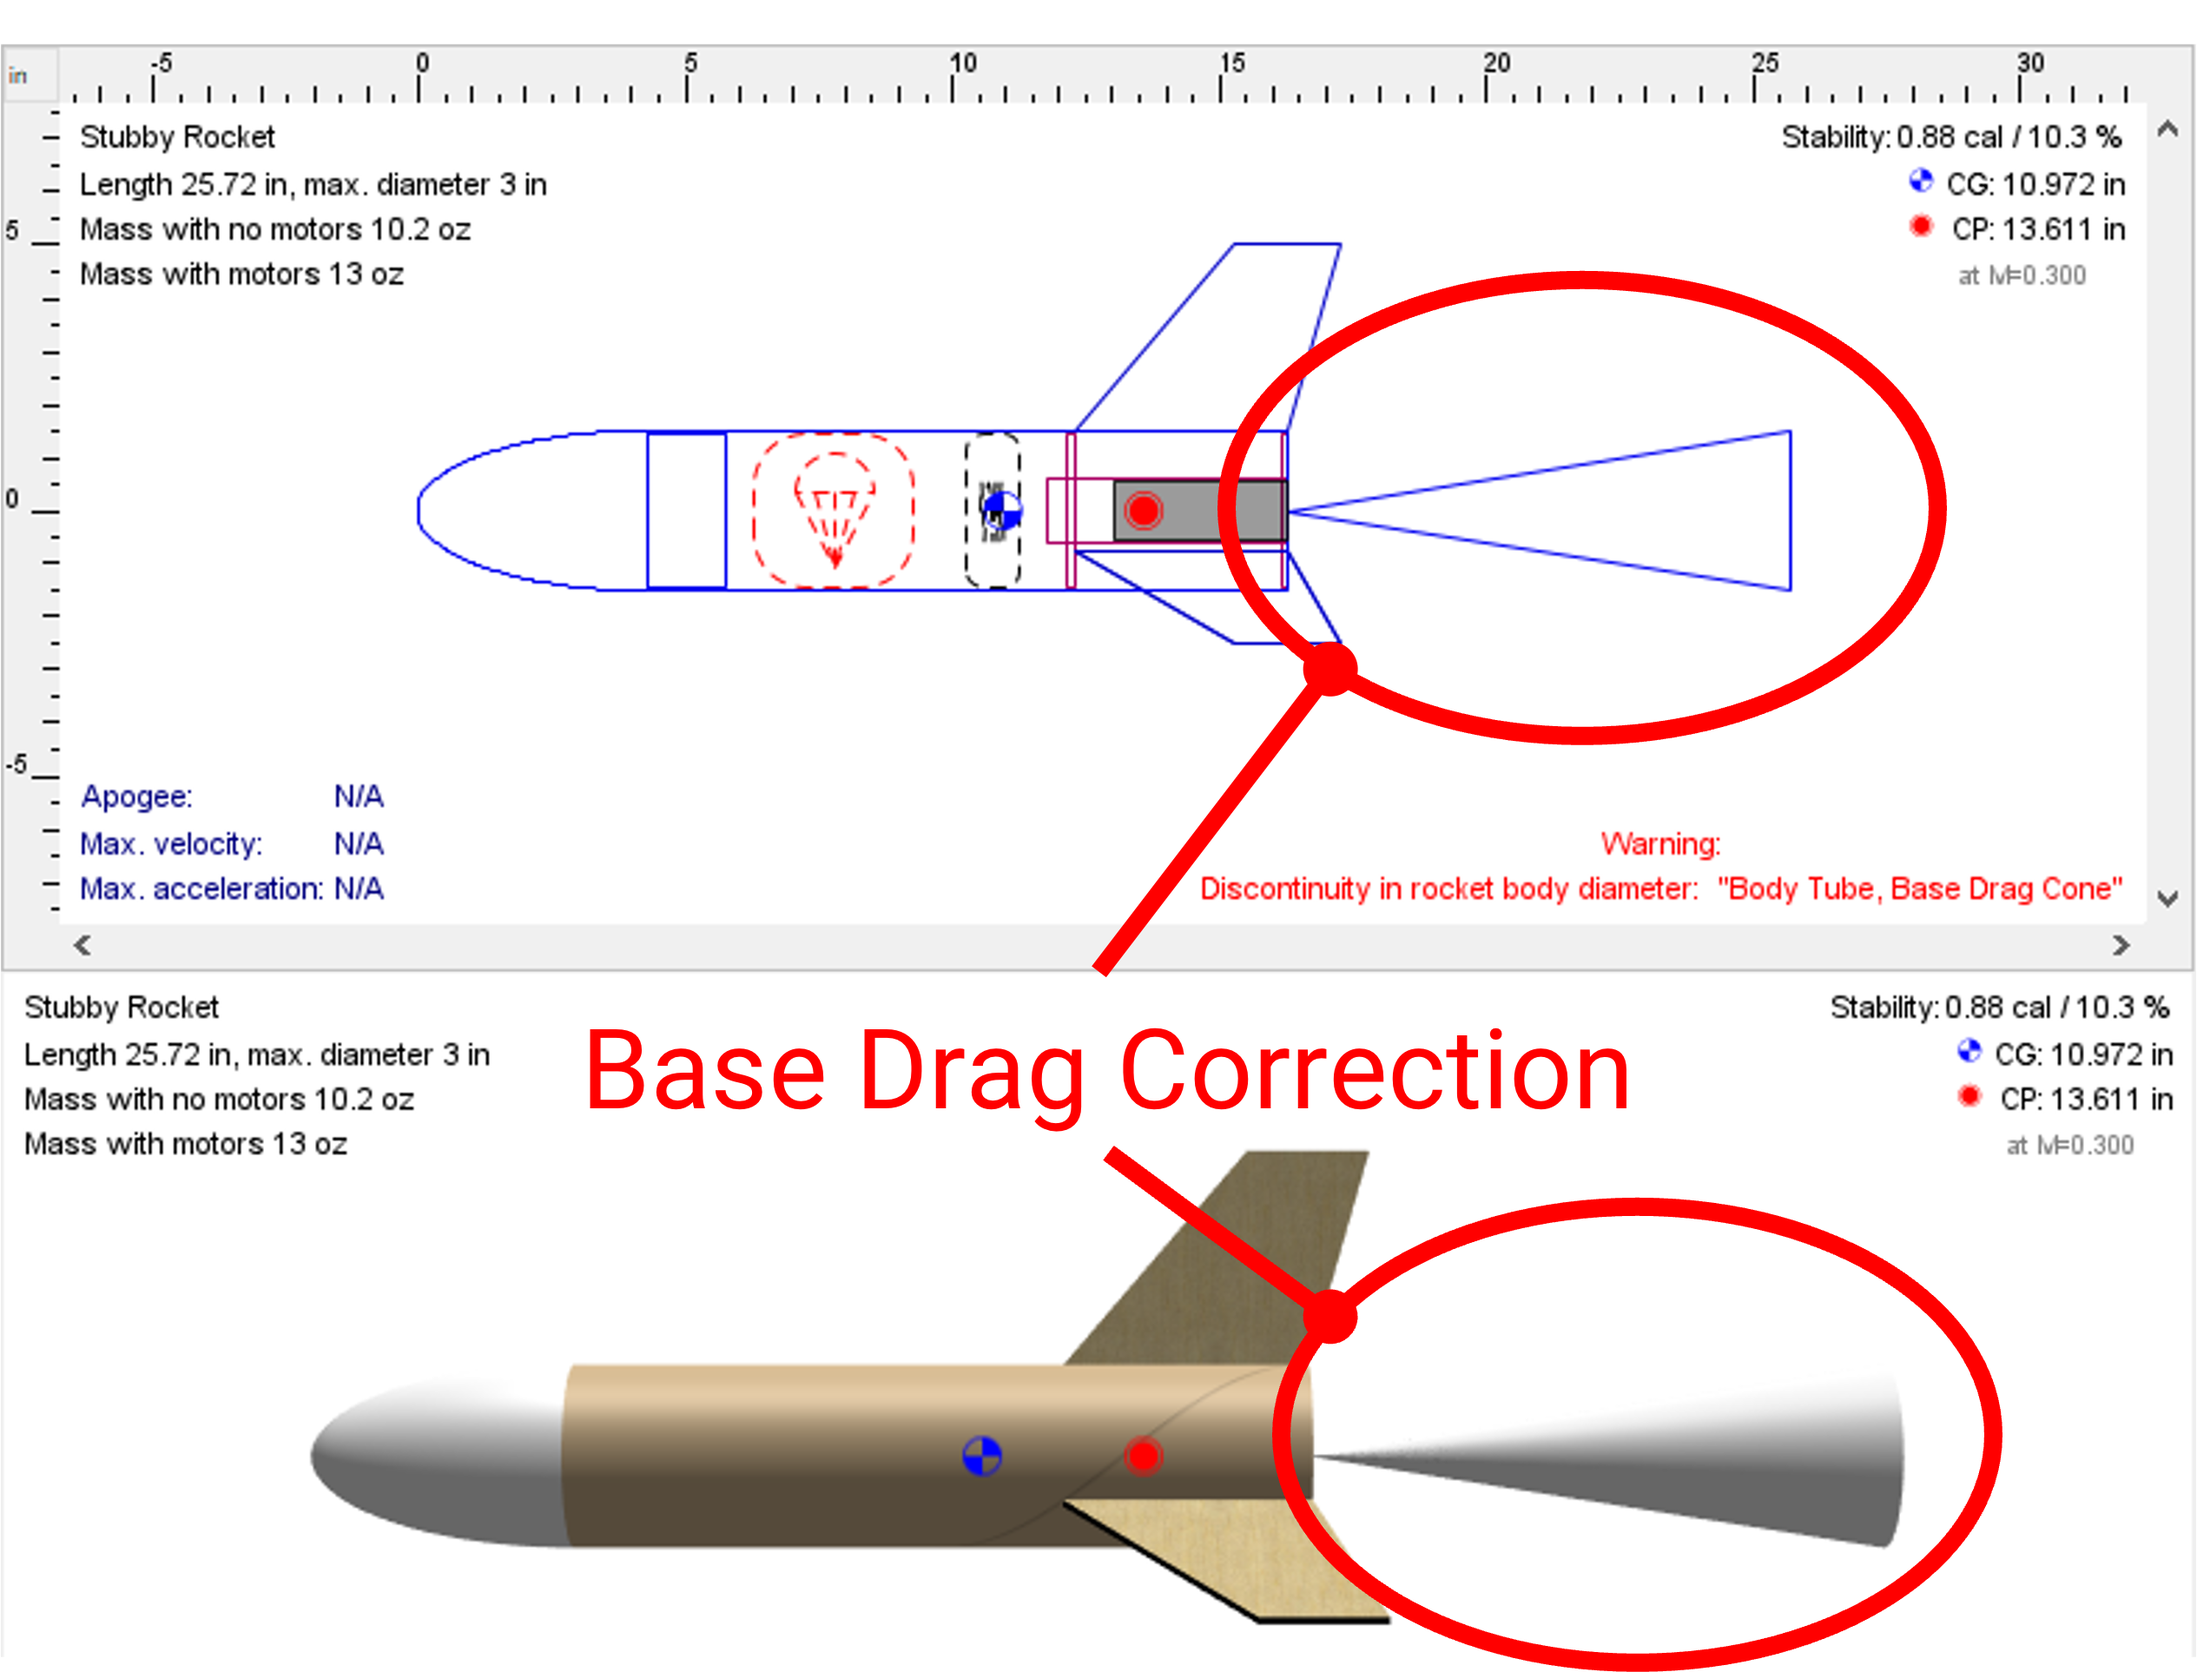
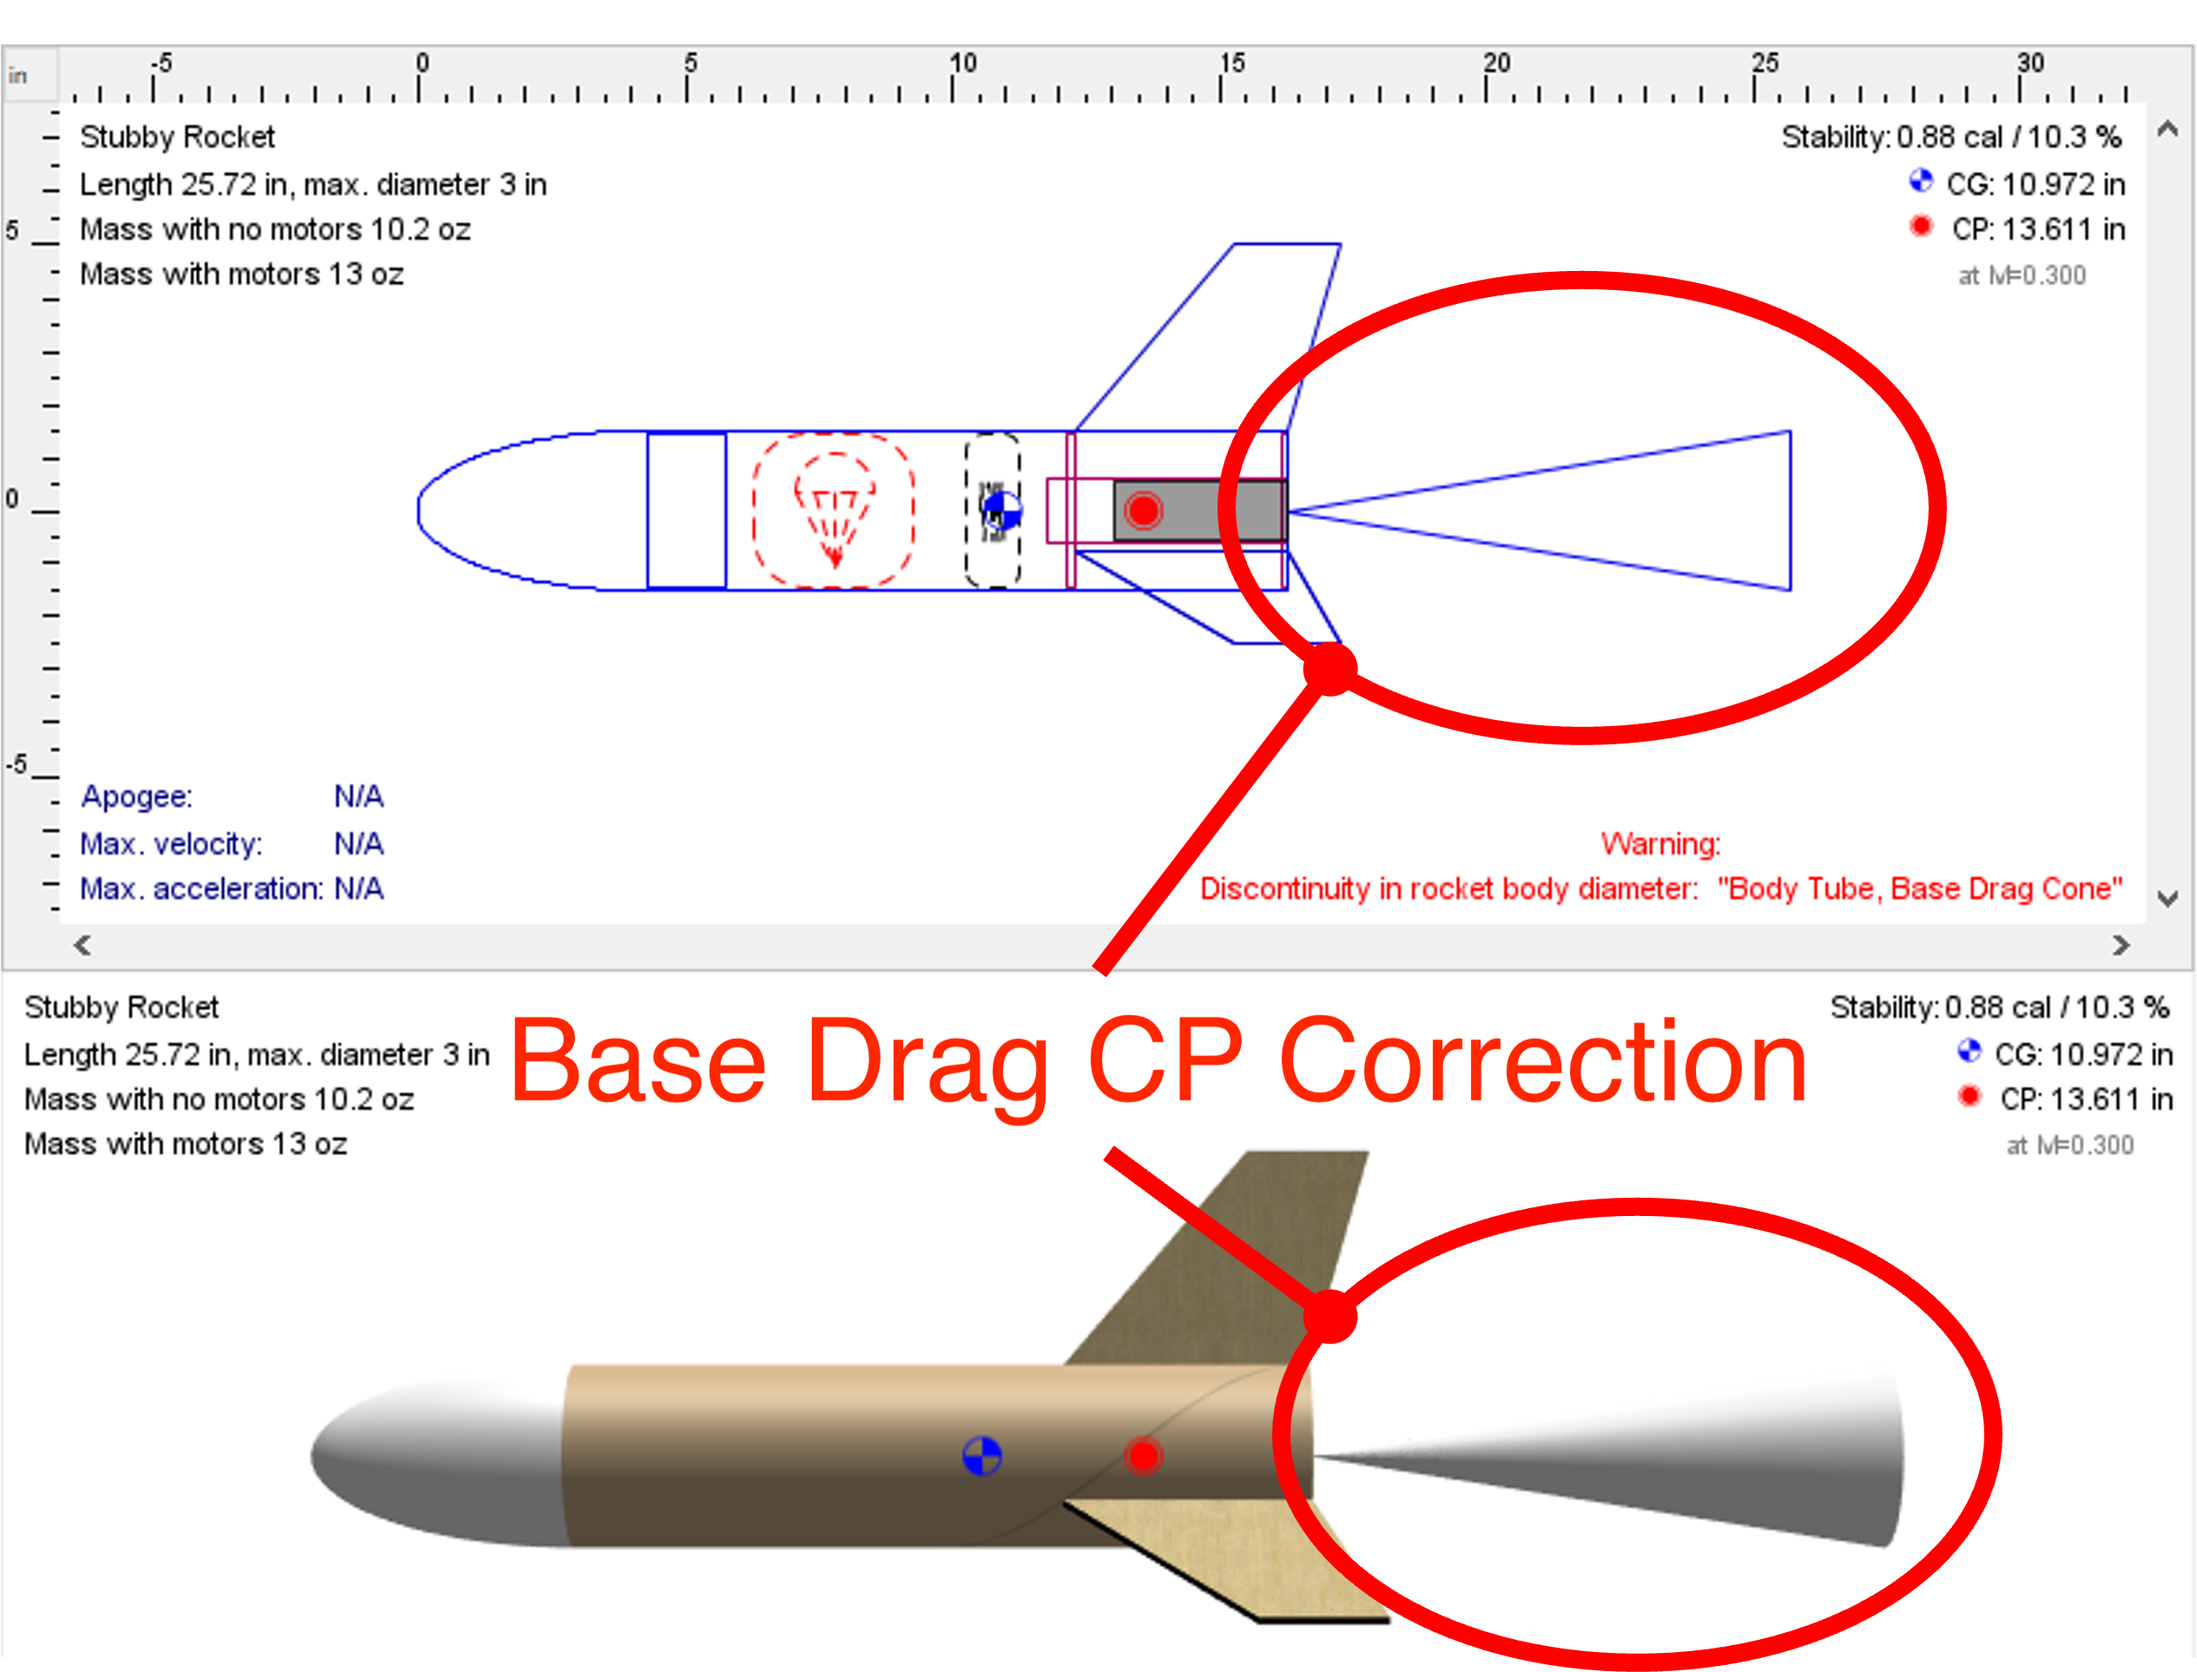
Updates to base drag tutorial text and thumbnail

Changed region(s): [[0.2186, 0.5922, 0.8431, 0.6857]]

diff --git a/_tutorials/base_drag.md b/_tutorials/base_drag.md
@@ -2,37 +2,39 @@
 layout: tutorial
 title: Implementing Base Drag CP Correction
 thumbnail: /img/tutorials/thumbnails/base_drag.png
-description: This tutorial will show the best ways to implement the Base Drag CP Hack in your OR mode.
+description: This tutorial will show the best ways to implement Base Drag CP Correction in your OR model.
 date: 2023-10-27
-difficulty: advanced
+difficulty: intermediate
 toc: true
 ---
 
 ### Introduction
 
-Ever since the publication of [Apogee's Peak-of-Flight newsletter #154](https://www.apogeerockets.com/education/downloads/Newsletter154.pdf), use and implementation of the `base drag hack`, as it is commonly known (but shouldn't be... as we'll discuss below) have been a frequent topic of conversation and a source of many questions.  In this tutorial we'll show how to implement it most correctly and efficiently in OpenRocket, starting with version 23.09.
+Ever since the publication of Bruce Levison's article in [Apogee's Peak-of-Flight newsletter #154](https://www.apogeerockets.com/education/downloads/Newsletter154.pdf), use and implementation of the "base drag hack", as it is commonly known (but shouldn't be... as we'll discuss below) have been a frequent topic of conversation and a source of many questions.  In this tutorial we'll show how to implement it most correctly and efficiently in OpenRocket, starting with version 23.09.
 
 <script>
-  addWarningMessage('This tutorial will only address *how* to implement the hack as specified in Peak-of-Flight #154. Debates concerning the validity of the hack, or exactly *when* to use it, are left for discussion elsewhere.', true)
+  addWarningMessage('This tutorial will focus on *how* to implement the hack as specified in Peak-of-Flight #154. Debates concerning the validity of the hack, or exactly *when* to use it, are left for discussion elsewhere.', true)
 </script>
 
 ### About the Hack
 
 #### What it's really for
 
-First let's clear up some misinformation.  This trick is commonly referred to as the `base drag hack`, which suggests that it is some type of correction for missing base drag.  In fact, base drag is already well-implemented in OpenRocket, and has been for a long time.  The purpose of the hack is, rather, to apply a **correction to Center of Pressure** to incorporate the effects of base drag, something which is *not* currently implemented in OpenRocket.
+First let's clear up some misinformation.  This trick is sometimes referred to as the "base drag hack", which suggests that it is some type of correction for missing base drag.  In fact, base drag is already properly calculated in OpenRocket, and has been for a long time.  The purpose of the hack is, rather, to apply a **correction to Center of Pressure** to incorporate the effects of base drag, something which is *not* currently implemented in OpenRocket.
 
-For this reason, we will refer to it in this tutorial as `Base Drag CP Correction`, and recommend you do the same. For convenience we will sometimes shorten it to just "the hack", which is not meant as a pejorative; it is simply descriptive.
+For this reason, we will refer to this technique more accurately as "Base Drag CP Correction", and recommend you do the same. For convenience we will sometimes shorten it to just "the hack".
 
 #### When to use it
 
-The PoF article specifies the use of the hack for rockets with **Less than a 10:1 Length to Diameter Ratio**. Although this is a simple rule to follow, it does raise some thorny questions.  But again, we'll leave those for discussion elsewhere.
+The PoF article specifies the use of Base Drag CP Correction for rockets with **Less than a 10:1 Length to Diameter Ratio**. Although this is a simple rule to follow, it does raise some thorny questions; we'll leave those for discussion elsewhere.  Ultimately, you will need to decide when to use it based on whatever criteria you choose.
 
 #### What to do
 
-The actual hack is quite simple. A **massless cone** with **diameter equal to the aft end of the rocket**, and **length Pi (π) times that diameter**, is added to the back of the rocket.  This will pull the CP back somewhat (and hence improve reported stability margin), and if done correctly (as we'll describe), will have *no other effect*.
+The hack itself is quite simple. A **massless cone** with **diameter equal to the aft end of the rocket**, and **length Pi (π) times that diameter**, is added to the tail end of the rocket.  This will pull the CP back somewhat (and hence improve reported stability margin), and if done correctly (as we'll describe), will have *no other effect*.
 
-### How to implement it
+Please note that the recommended cone dimensions are based on an assumption that the tail end of the rocket is a straight tube.  However, if the tail of the rocket is tapered (e.g. a tail cone such as in a V2), then base drag will be greatly reduced, and so one would imagine that the dimensions of the cone should change.  If anyone knows of a well-tested formula for modifying the base drag cone in the presence of a tail cone, please let us know!
+
+### How to implement it in OpenRocket
 
 Let's start with a short stubby 3FNC:
 
@@ -66,6 +68,10 @@ Note that the base drag of the original body tube is still there, and the new co
 
 Now the apogee is back up to 1084 ft, which is within margin of error of where we started.
 
+<script>
+  addWarningMessage('CD override was first implemented in OpenRocket 22.02. However, a small bug causes the drag calculations of the base drag cone to be slightly off.  Version 23.09 is the first version of OR that implements this correctly.',true)
+</script>
+
 The base drag cone is not very attractive in the 3D view:
 
 <div data-image-path="/img/tutorials/base_drag/threed_view.png"
@@ -82,5 +88,5 @@ Now, we can still see it (so we remember it's there), but it doesn't detract as 
 
 ### Conclusion
 
-This completes the implementation of Base Drag CP Correction.  It corrects the CP while not interfering with any other flight parameters, and looks decent in 3D view.  If and when to use it on your rockets... well, that's up to you.
+This completes our "optimal" implementation of Base Drag CP Correction.  It corrects the CP while not interfering with any other flight parameters, and looks decent in 3D view.  If and when to use it on your rockets... well, that's up to you.
 
